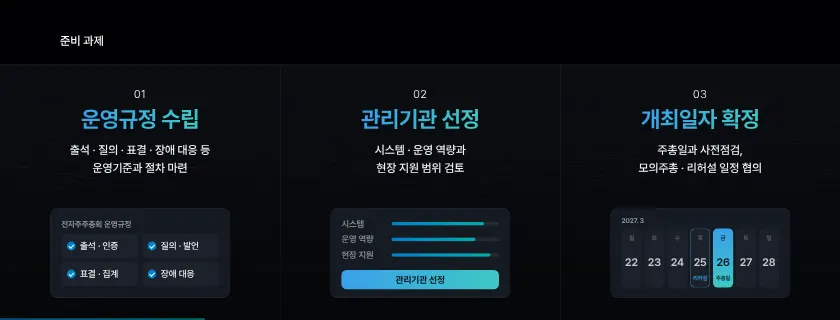
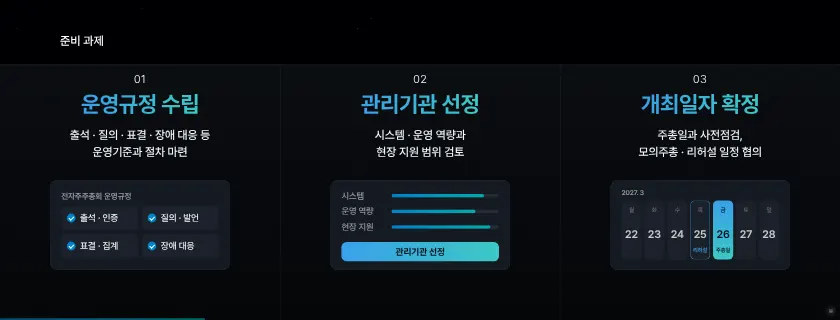
session4 K13: 아래 카드 3개를 위로(끝 1350px) · 위 번호 · 제목 · 설명도 함께 올려 카드와 간격, 배경 띠는 화면 끝까지. 썸네일 갱신
Claude-Session: https://claude.ai/code/session_01Mn7NmyW5iujmmHnaRBFKBZ

diff --git a/sw.js b/sw.js
@@ -1,5 +1,5 @@
 /* 오프라인 캐시 — 온라인 주소(https)로 한 번 열면 모든 파일을 저장해 두고, 통신이 끊겨도 저장본으로 동작합니다. */
-const V='seminar-screen-11261931';
+const V='seminar-screen-11261933';
 const FILES=["./","assets/KakaoBigSans-Bold.woff2","assets/KakaoBigSans-Regular.woff2","assets/KakaoSmallSans-Bold.woff2","assets/KakaoSmallSans-Light.woff2","assets/KakaoSmallSans-Regular.woff2","assets/OrbitControls.js","assets/PretendardVariable.woff2","assets/attendees.js","assets/blue-bloom.html","assets/cong1.webp","assets/cong2.webp","assets/ds-bg.html","assets/four-states.html","assets/intro.mp4","assets/irk-white.svg","assets/irk-wordmark-white.svg","assets/kism-intro.mp4","assets/kism-white.svg","assets/ksmp-white.svg","assets/panel.js","assets/qa-online.js","assets/s2/img1.png","assets/s2/img2.png","assets/s2/img3.png","assets/s2/img4.png","assets/s4/aws.webp","assets/s4/callcenter.webp","assets/s4/chair-1.webp","assets/s4/chair-2.webp","assets/s4/chair-3.webp","assets/s4/conexus-word.webp","assets/s4/ctl-1.webp","assets/s4/cx-1.webp","assets/s4/cx-2.webp","assets/s4/cx-3.webp","assets/s4/cx-flow.mp4","assets/s4/cx-pop1.webp","assets/s4/cx-pop2.webp","assets/s4/cx-vote.mp4","assets/s4/cx-vote.webp","assets/s4/cxs-1.webp","assets/s4/insurance.webp","assets/s4/isms-t.webp","assets/s4/isms.webp","assets/s4/ismsp-t.webp","assets/s4/ismsp.webp","assets/s4/kosmos-white.png","assets/s4/ks-1.webp","assets/s4/ks-2.webp","assets/s4/ks-3.webp","assets/s4/ks-4.webp","assets/s4/ks-5.webp","assets/s4/ks-video.webp","assets/s4/live-1.webp","assets/s4/live-2.webp","assets/s4/live-3.webp","assets/s4/live-4.webp","assets/s4/live-5.webp","assets/s4/live-6.webp","assets/s4/live-7.webp","assets/s4/live-8.webp","assets/s4/logos.webp","assets/s4/ocr-1.webp","assets/s4/ocr-2.webp","assets/s4/ocr-3.webp","assets/s4/ocr-4.webp","assets/s4/ocr-5.webp","assets/s4/on-1.png","assets/s4/on-2.webp","assets/s4/on-3.webp","assets/s4/on-4.png","assets/s4/on-5.webp","assets/s4/onboard-1.webp","assets/s4/onboard-2.webp","assets/s4/privacy.webp","assets/s4/proxymity.svg","assets/s4/rehearsal.webp","assets/s4/streaming-korea.webp","assets/s4/tab-1.webp","assets/s4/tab-2.webp","assets/s4/team.webp","assets/sched.js","assets/screen-title-2.svg","assets/screen-title-b-text.svg","assets/screen-title-b.svg","assets/seat-banners.js","assets/seat-fascia.js","assets/seat-screen.js","assets/seatmap.js","assets/service-intro.mp4","assets/speaker-scott.webp","assets/speaker1-1.webp","assets/speaker2.webp","assets/speaker3-1.webp","assets/supabase.min.js","assets/three.min.js","assets/title-logos.svg","control.html","index-fs.html","index.html","kism.html","lobby/cuts.html","lobby/index.html","mc.html","session2.html","session4.html","sw.js","tools/s2_build.py","tools/s2_shell.html","assets/s3/p01.webp","assets/s3/p02.webp","assets/s3/p03.webp","assets/s3/p04.webp","assets/s3/p05.webp","assets/s3/p06.webp","assets/s3/p07.webp","assets/s3/p08.webp","assets/s3/p09.webp","assets/s3/p10.webp","assets/s3/p11.webp","assets/s3/p12.webp","assets/s3/p13.webp","assets/s3/p14.webp","assets/s3/p15.webp","assets/s3/p16.webp","assets/s3/p17.webp","assets/s3/p18.webp","assets/s3/p19.webp","assets/s3/p20.webp","assets/s3/p21.webp","assets/s3/p22.webp","assets/s3/p23.webp","assets/kism/photo-main.webp","assets/kism/photo-2.webp","assets/kism/photo-3.webp","assets/kism/photo-4.webp","assets/sound/opening-hit.mp3","assets/s4/kosmos-color.svg","assets/s4/ke-logo.png","assets/s4/ke-live.mp4","assets/kism/kwon-talk.mp4","assets/kism/manual-book.webp","kism-open.html","kism_16x9.html","led.html","assets/s4/cx-ops.mp4","assets/s4/cx-ops.webp","assets/s4/agent-app.mp4","assets/s4/agent-app.webp","assets/s4/k24b-bg.webp","session0.html","assets/kism/photo-main-cut.webp","assets/s4/cx-chair.mp4","assets/s4/cx-chair.webp","assets/s4/cx-test.mp4","assets/s4/cx-test.webp","assets/s4/onboard-mgr.webp","assets/s4/proxymity-logo.png","assets/s4/k21-bg.webp","assets/s4/kosmos-admin-white.svg","assets/kism-intro-16x9.mp4","assets/seat-guide.html","assets/s4/app-icon-agent.svg","assets/ds-main.mp4","assets/s4/k2-agency.webp","assets/s4/k2-support.webp","assets/s4/thumbs/K00.webp","assets/s4/thumbs/K01.webp","assets/s4/thumbs/K02.webp","assets/s4/thumbs/K03.webp","assets/s4/thumbs/K04.webp","assets/s4/thumbs/K05.webp","assets/s4/thumbs/K06.webp","assets/s4/thumbs/K07.webp","assets/s4/thumbs/K08.webp","assets/s4/thumbs/K09.webp","assets/s4/thumbs/K10.webp","assets/s4/thumbs/K11.webp","assets/s4/thumbs/K12.webp","assets/s4/thumbs/K13.webp","assets/s4/thumbs/K14.webp","assets/s4/thumbs/K15.webp","assets/s4/thumbs/K16.webp","assets/s4/thumbs/K17.webp","assets/s4/thumbs/K18a.webp","assets/s4/thumbs/K18b.webp","assets/s4/thumbs/K18c.webp","assets/s4/thumbs/K19.webp","assets/s4/thumbs/K19b.webp","assets/s4/thumbs/K20.webp","assets/s4/thumbs/K21.webp","assets/s4/thumbs/K21b.webp","assets/s4/thumbs/K22s.webp","assets/s4/thumbs/K23.webp","assets/s4/thumbs/K23b.webp","assets/s4/thumbs/K24a.webp","assets/s4/thumbs/K24b.webp","assets/s4/thumbs/K24c.webp","assets/s4/thumbs/K25.webp","assets/s4/thumbs/K25b.webp","assets/s4/thumbs/K26.webp","assets/s4/thumbs/K27.webp","assets/s4/thumbs/K28a.webp","assets/s4/thumbs/K28b.webp","assets/s4/thumbs/K28c.webp","assets/s4/thumbs/K28d.webp","assets/s4/thumbs/K29.webp","assets/s4/thumbs/K30.webp"];
 self.addEventListener('install',e=>{e.waitUntil(caches.open(V).then(c=>c.addAll(FILES)).then(()=>self.skipWaiting()));});
 self.addEventListener('activate',e=>{e.waitUntil(caches.keys().then(ks=>Promise.all(ks.filter(k=>k!==V).map(k=>caches.delete(k)))).then(()=>self.clients.claim()));});

diff --git a/session4.html b/session4.html
@@ -1570,6 +1570,7 @@ html,body,body *{touch-action:none;-webkit-touch-callout:none;-webkit-user-selec
 #K10 .rows{top:470px}
 #K11 .chart{top:540px;height:880px}
 #K13 .k13c{bottom:0}
+#K13 .cl{padding-top:44px}#K13 .dg{margin-bottom:250px}  /* 11/26 19:35 아래 카드를 위로(끝 1350px), 배경 띠는 화면 끝까지 */
 #K14 .k14p{top:400px}#K14 .tr{height:235px}
 #K15 .cols{top:800px;height:560px;left:300px;right:300px}
 #K19b>:not(.top):not(.k19i){translate:0 -70px}
